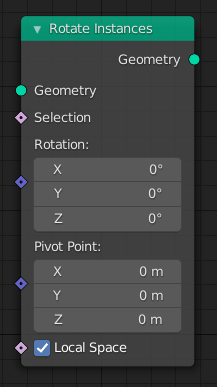
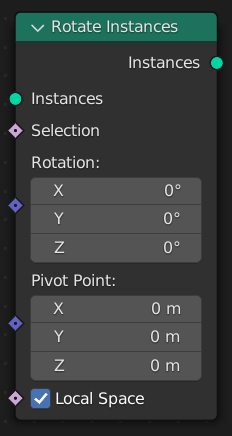
Merge branch 'blender-3.0-release'
git-svn-id: https://svn.blender.org/svnroot/bf-manual/trunk/blender_docs@8650 c4de1f47-6596-e411-a384-0024e86c2797

Changed region(s): [[0.0276, 0.031, 0.9677, 0.9612], [0.6912, 0.4031, 0.7742, 0.5891]]

diff --git a/manual/modeling/geometry_nodes/instances/scale_instances.rst b/manual/modeling/geometry_nodes/instances/scale_instances.rst
@@ -10,7 +10,9 @@ Scale Instances Node
 
    The Scale Instances node.
 
-The *Scale Instances* node scales instances in local or global space.
+The *Scale Instances* node scales a geometry's instances in local or global space.
+
+The :doc:`/modeling/geometry_nodes/instances` page contains more information about geometry instances.
 
 
 Inputs
@@ -20,16 +22,20 @@ Geometry
    Standard geometry input.
 
 Selection
-   The instances that will be scaled.
+   Boolean field used to determine if an instance will be scaled.
 
 Scale
-   Scales the instances in given dimensions.
+   The scale factor to apply to the instance's transform on each axis.
 
 Center
-   The position where instances are scaled.
+   The position from which the instance origins are scaled. Each instance will move away from this
+   location. When the *Local Space* input is enabled, this location is relative to the initial
+   transform of each instance.
 
 Local Space
-   If enabled, the instances are scaled in local space otherwise they are scaled in global space.
+   If enabled, the instances are scaled in local space. In other words, they are scaled in the
+   directions the described by each instance's initial transform. When the input is disabled, the
+   *Center* and *Scale* inputs are specified in the local space of the modifier object.
 
 
 Properties

diff --git a/manual/modeling/geometry_nodes/instances/rotate_instances.rst b/manual/modeling/geometry_nodes/instances/rotate_instances.rst
@@ -10,7 +10,9 @@ Rotate Instances Node
 
    The Rotate Instances node.
 
-The *Rotate Instances* node rotates instances in local or global space.
+The *Rotate Instances* node rotates a geometry's instances in local or global space.
+
+The :doc:`/modeling/geometry_nodes/instances` page contains more information about geometry instances.
 
 
 Inputs
@@ -20,16 +22,19 @@ Geometry
    Standard geometry input.
 
 Selection
-   The instances that will be rotated.
+   Boolean field used to determine if an instance will be rotated.
 
 Rotation
-   The Euler rotation to rotate the instances by.
+   The :term:`Euler` rotation to rotate the instances by.
 
 Pivot Point
-   The position where the instances are rotated.
+   The position around which each instance is rotated. If the *Local Space* input is true,
+   the location is relative to the initial transform of the instance.
 
 Local Space
-   If enabled, the instances are rotated in local space otherwise they are rotated in global space.
+   If enabled, the instances are rotated in local space. In other words, they are rotated around the
+   axes described by each instance's initial transform. When the input is disabled, the pivot point
+   and rotation are specified in the local space of the modifier object.
 
 
 Properties

diff --git a/manual/modeling/geometry_nodes/instances/translate_instances.rst b/manual/modeling/geometry_nodes/instances/translate_instances.rst
@@ -10,8 +10,9 @@ Translate Instances Node
 
    The Translate Instances node.
 
-The *Translate Instances* node translates instances in local or global space.
+The *Translate Instances* node moves a geometry's top-level instances in local or global space.
 
+The :doc:`/modeling/geometry_nodes/instances` page contains more information about geometry instances.
 
 Inputs
 ======
@@ -20,13 +21,14 @@ Geometry
    Standard geometry input.
 
 Selection
-   The instances that will be translated.
+   Boolean field used to determine if an instance will be translated.
 
 Translation
    The vector to translate the instances by.
 
 Local Space
-   If enabled, the instances are translated in local space otherwise they are translated in global space.
+   If enabled, the instances are translated relative to their initial rotation.
+   Otherwise they are translated in the local space of the modifier object.
 
 
 Properties

diff --git a/manual/modeling/geometry_nodes/fields.rst b/manual/modeling/geometry_nodes/fields.rst
@@ -105,9 +105,12 @@ Field inputs may also come from other nodes that process geometry like the
 :doc:`/modeling/geometry_nodes/point/distribute_points_on_faces`, 
 in the form of :ref:`anonymous-attributes`.
 
-
 Field Context
 =============
+
+All field nodes work in the context of the data flow node they are connected to.
+The context usually consists of a geometry component type and an attribute domain,
+so it determines what data is retrieved from input nodes. 
 
 One common misunderstanding is that the same field network used in multipled places will
 output the same data. This is not necessarily true, because the field network will be evaluated

diff --git a/manual/render/cycles/render_settings/sampling.rst b/manual/render/cycles/render_settings/sampling.rst
@@ -194,6 +194,11 @@ Scrambling Distance
    Adaptive
       Uses a formula to adapt the scrambling distance strength based on the sample count.
 
+      .. note::
+      
+         When *Adaptive Scrambling Distance* is enabled, *Scrambling Distance* behaves like a modifier for
+         the *Adaptive Scrambling Distance* value.
+
    .. _bpy.types.CyclesRenderSettings.preview_scrambling_distance:
 
    Viewport

diff --git a/manual/modeling/geometry_nodes/curve/set_handle_type.rst b/manual/modeling/geometry_nodes/curve/set_handle_type.rst
@@ -12,8 +12,8 @@ Set Handle Type Node
 
 Sets the handle type for the points on the Bézier curve that are in the selection.
 
-The handle type of each control point can be retrieved with
-the :doc:`/modeling/geometry_nodes/curve/set_handle_type`.
+A selection for a certain handle type can be retrieved with
+the :doc:`/modeling/geometry_nodes/curve/handle_type_selection`.
 
 
 Inputs

diff --git a/manual/modeling/geometry_nodes/curve/endpoint_selection.rst b/manual/modeling/geometry_nodes/curve/endpoint_selection.rst
@@ -44,7 +44,7 @@ Outputs
 =======
 
 Selection
-   Selection of start and end of each spline of the curve.
+   Selection of the start and end of each spline of the curve.
 
 
 Examples
